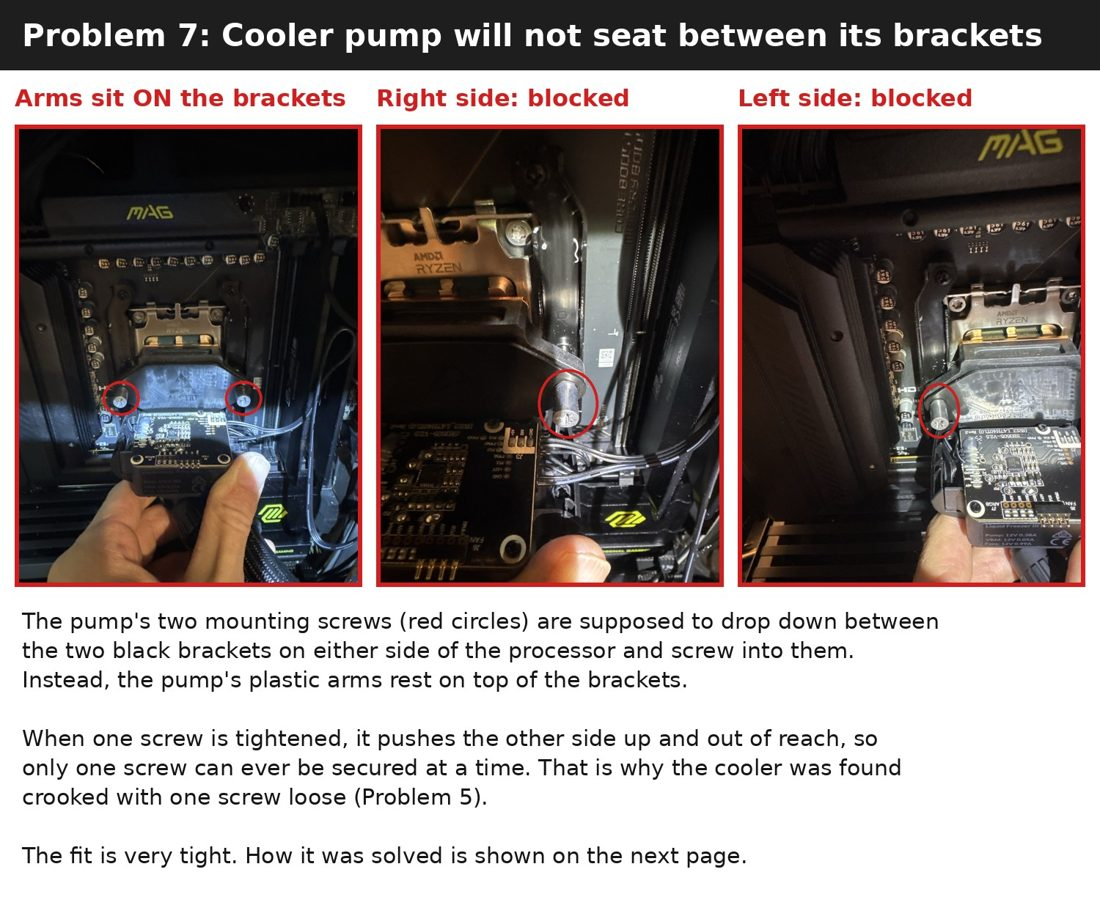
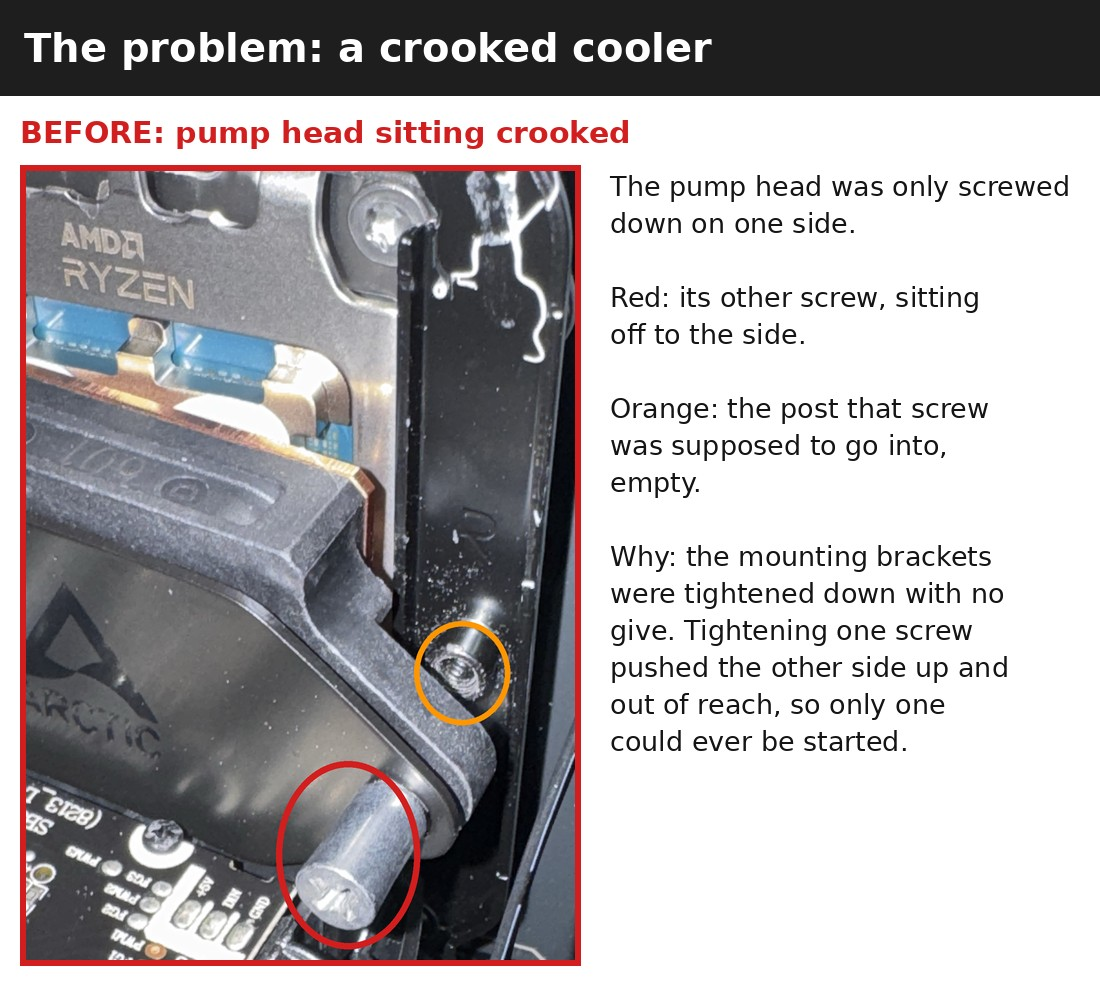
Sample report: before/after cooler photos, same angle
Claude-Session: https://claude.ai/code/session_01HQr4bYnaMc96NC2CpjUTkH

diff --git a/index.html b/index.html
@@ -184,8 +184,8 @@
         <p>Pages from a real one: a custom gaming PC that wouldn't start, with a processor running at 95°C.</p>
       </div>
       <div class="shots">
-        <figure><img src="assets/img/report-problem.jpg" alt="Report page: circled photos showing a liquid cooler pump that would not seat between its brackets" loading="lazy"><figcaption>The problem, photographed and circled.</figcaption></figure>
-        <figure><img src="assets/img/report-fix.jpg" alt="Report page: annotated photos of the corrected cooler mount" loading="lazy"><figcaption>How it was fixed.</figcaption></figure>
+        <figure><img src="assets/img/report-problem.jpg" alt="Report page: before photo of a liquid cooler pump head sitting crooked, one screw off to the side of its empty post" loading="lazy"><figcaption>The problem, photographed and circled.</figcaption></figure>
+        <figure><img src="assets/img/report-fix.jpg" alt="Report page: after photo from the same angle, pump head seated square with the screw in its post, plus the four fix steps" loading="lazy"><figcaption>How it was fixed.</figcaption></figure>
         <figure><img src="assets/img/report-temps.jpg" alt="Report page: processor temperature 95 C before, 44 C after" loading="lazy"><figcaption>The proof: 95°C at idle before, 44°C after.</figcaption></figure>
       </div>
     </div>
